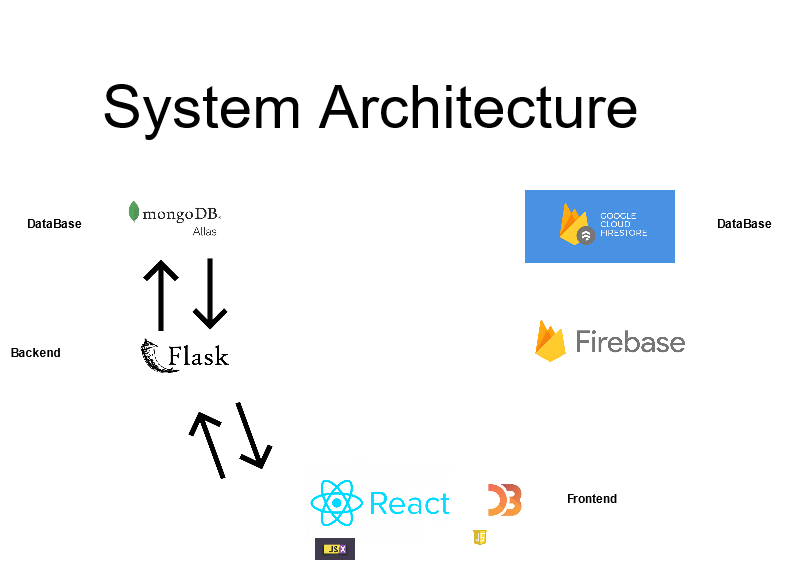
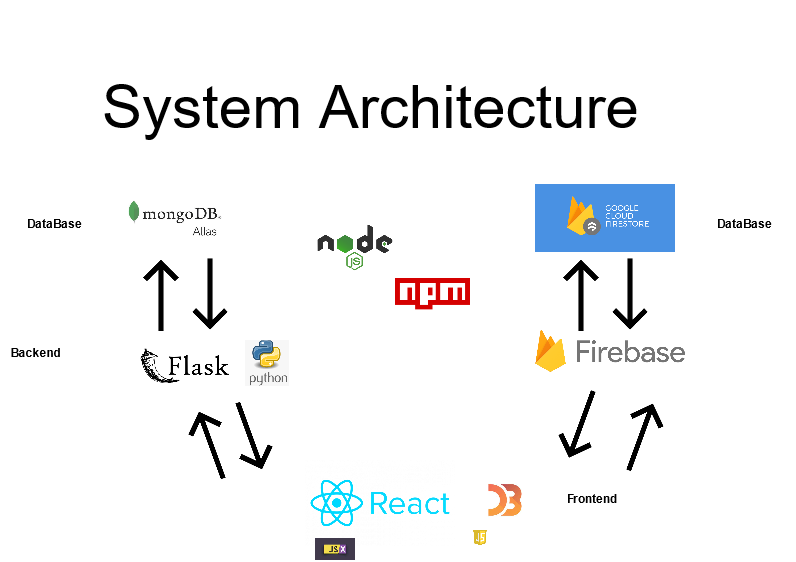
added to tech review

diff --git a/template-master-Dissertation/content.tex b/template-master-Dissertation/content.tex
@@ -244,7 +244,7 @@ Check out the nice graphs in Figure \ref{tikz:graphs}, and the nice diagram in F
 
 
 \chapter{Technology Review}
-This chapter will outline the technology used and the reasoning for choosing a particular technology. Below is a list of technologies used, descriptions of the technologies at a conceptual level are included for each technology.
+This chapter will outline the technology used and the reasoning for choosing a particular technology. Below is a list of technologies used, descriptions of the technologies at a conceptual level are included for each technology. 
 \begin{itemize}
 \item Git
 \item GitHub
@@ -262,42 +262,75 @@ This chapter will outline the technology used and the reasoning for choosing a p
 \end{itemize}
 
 \section{Version Control}
+Version control is an essential element of any collaborative undertaking. An organisation in GitHub was set up to manage the version control for the project. At the early stages the team were investigating different aspects of data visualisation, when this investigation concluded we created a new repository where all the future work of the project would be tracked.
 \subsection{Git}
 Git is a free and open source distributed version control system designed to handle everything from small to very large projects with speed and efficiency. It is a free and open source software distributed under the terms of the GNU General Public License version 2.
 Git allows and encourages the user to have multiple local branches that can be entirely independent of each other. The creation, merging, and deletion of those lines of development takes seconds. [SN 1] 
 Git is installed and maintained on the users local system and provides a record of ongoing programming versions. It allows developers to rollback to an older version of the code if required.
 There are other popular version control systems for example Apache SVN or CVS, the team chose Git as it was a technology that we were familiar with but did not have a lot of experience with. We felt that there would be many large learning curves ahead of us and if we could mitigate the size of the learning curve by choosing a familiar technology it would help us focus on other areas that required more learning. Having said that there was a significant learning curve using Git with a team. Git gave us experience of using branches, merging branches and manually resolving conflicts.
-\begin{center}    
-      \includegraphics[scale=0.7]{img/git.PNG}
-\end{center}
+\begin{figure}
+    \centering
+    \includegraphics[scale=0.7]{img/git.PNG}
+    \caption{Git on local machine}
+    \label{fig:my_label}
+\end{figure}    
+      
+
 
 \subsection{GitHub}
-GitHub is a web based code hosting platform for version control and collaboration. It lets users work together on projects from anywhere.[SN 2] https://guides.github.com/activities/hello-world/
+GitHub is a web based code hosting platform for version control and collaboration. It lets users work together on projects from anywhere.[SN 2]
 GitHub provides students of GMIT with free accounts, for this project a free account was sufficient as there is a facility to make the project public or private. Using GitHub allowed the team to work entirely remotely.
-\begin{center}    
-      \includegraphics[scale=0.5]{img/github.PNG}
-\end{center}
+\begin{figure}
+    \centering
+    \includegraphics[scale=0.5]{img/github.PNG}
+    \caption{Github Organistaion}
+    \label{fig:my_label1}
+\end{figure}    
+      
+      
 
-\section{Backend}
+
+
 \subsection{Flask}
-Flask is a micro web framework written in Python. It is classified as a microframework because it does not require particular tools or libraries. The “micro” in microframework means Flask aims to keep the core simple but extensible. It has no database abstraction layer, form validation, or any other components where pre-existing third-party libraries provide common functions. However, Flask supports extensions that can add application features as if they were implemented in Flask itself. Extensions exist for object-relational mappers, form validation, upload handling, various open authentication technologies and several common framework related tools.[SN 3] \url{https://en.wikipedia.org/wiki/Flask_(web_framework)}
-The architecture of our project required a back end,front end and a database. We had some experience with MEAN and MERN stacks from previous college projects. More recently we had some exposure to Flask as a backend in Emerging Technology project. We had decided to use React for our frontend, which we had used for a previous MERN(Mongo, Express, React, NodeJs) project. We had also used Angular previously for a MEAN(Mongo, Express, Angular, NodeJs) project but decided to use React.There will be further discussion in the React section about why React was chosen. Part of the teams learning objectives was to use new technologies, to the team, and learn as much as possible about them. For this reason we chose Flask as our backend, as it offered flexible options re database and front end choices. From implementing Flask and reading documentation, the idea of virtual environments was introduced. Virtual environments are independent groups of Python libraries, one for each project. Packages installed for one project will not affect other projects or the operating system’s packages.[SN 4] \url{https://flask.palletsprojects.com/en/1.1.x/installation/}
+Flask is a micro web framework written in Python. It is classified as a microframework because it does not require particular tools or libraries. The “micro” in microframework means Flask aims to keep the core simple but extensible. It has no database abstraction layer, form validation, or any other components where pre-existing third-party libraries provide common functions. However, Flask supports extensions that can add application features as if they were implemented in Flask itself. Extensions exist for object-relational mappers, form validation, upload handling, various open authentication technologies and several common framework related tools.[SN 3] 
+The architecture of our project required a back end,front end and a database. We had some experience with MEAN and MERN stacks from previous college projects. More recently we had some exposure to Flask as a backend in Emerging Technology project. We had decided to use React for our frontend, which we had used for a previous MERN(Mongo, Express, React, NodeJs) project. We had also used Angular previously for a MEAN(Mongo, Express, Angular, NodeJs) project but decided to use React.There will be further discussion in the React section about why React was chosen. Part of the teams learning objectives was to use new technologies, to the team, and learn as much as possible about them. For this reason we chose Flask as our backend, as it offered flexible options re database and front end choices. From implementing Flask and reading documentation, the idea of virtual environments was introduced. Virtual environments are independent groups of Python libraries, one for each project. Packages installed for one project will not affect other projects or the operating system’s packages.[SN 4]
 Most importantly using Flask allowed us to write our own API calls to our MongoDB Atlas database.
 
-\begin{center}    
-      \includegraphics[scale=0.7]{img/flask.PNG}
-\end{center}
+\begin{figure}
+    \centering
+    \includegraphics[scale=0.5]{img/flask.PNG}
+    \caption{Flask}
+    \label{fig:my_label2}
+\end{figure}    
+      
 
-\section{Frontend}
+
+
+
+
+
+
+
+
+
+
+
+
+
 \subsection{React}
 React is a JavaScript library, used for building reusable components.React allows users to design simple views for each state in their application, and React will efficiently update and render just the right components when the data changes.
 Declarative views make the code more predictable and easier to debug. Build encapsulated components that manage their own state, then compose them to make complex UIs.
-React does not make assumptions about the users technology stack, allowing the development of new features in React without rewriting existing code. [SN 5] \url{https://reactjs.org/}
+React does not make assumptions about the users technology stack, allowing the development of new features in React without rewriting existing code. [SN 5]
 React recommends using JSX, an syntax extension of Javascript. We have used JSX in our project.
 See example code from the project.
-\begin{center}    
-      \includegraphics[scale=0.6]{img/jsx.PNG}
-\end{center}
+\begin{figure}
+    \centering
+    \includegraphics[scale=0.6]{img/jsx.PNG}
+    \caption{Example of JSX}
+    \label{fig:my_label4}
+\end{figure}    
+      
+
 
 When researching what front end software to use we considered Angular and React. From our research we compared the two technologies. Included below is a table outlining the advantages and disadvantages of both.
 \begin{table}[ht]
@@ -325,7 +358,7 @@ When researching what front end software to use we considered Angular and React.
 
 
 Information about Job popularity taken from a google search on the 15th of April 2021
-Information about professional popularity taken from StackOverflow survey(2020) of most loved Web framework.\url{https://insights.stackoverflow.com/survey/2020#most-loved-dreaded-and-wanted}
+Information about professional popularity taken from StackOverflow survey(2020) of most loved Web framework.[SN 6]
 
 
 There is no definitive way to decide in advance, which technology would be the best to use, but comparing relevant aspects between technologies can help narrow the choices and help with making the final decision. Having considered all of the information from the table above and taking into account our previous experiences with both Angular and React we chose React as our front end development technology.
@@ -333,7 +366,7 @@ Choice of FrontEnd Technology - can be looked at from 2 perspectives 1. A learni
 2. A good fit for the task we were trying to achieve within the project.
 
 Having completed the project, we feel it had been a good choice from both of those perspectives. 
-\section{Database}
+
 \subsection{MongoDB Atlas}
 MongoDB Atlas is a database as a service, a cloud based service.
 When designing the application we were unsure what format our data would take, if the data was purely relational it would only need a SQL type database, if the data was non relational it would need a noSQL database. 
@@ -342,11 +375,11 @@ NoSQL databases (aka "not only SQL") are non tabular, and store data differently
 For example: Last\_name: "Jones", First\_name: "Mary", Middle\_initial: "S", etc .
 
 
-[SN 6] \url{https://www.mongodb.com/nosql-explained}\\
+[SN 7] \\
 For our data storage we decided to use a noSQL Database as this stored data in the way we required. We could have created a cloud based sql database using something like Postgres, but the amount of data we were handling did not require separation.
 In the end most of our data was relational data but we felt that MongoDB Atlas was still a good fit as it allowed us to add other noSQL type data if the need arose. Each document has a different number of fields, size, content, and is stored in a JSON like format called BSON. The documents in MongoDB do not need to have a schema defined beforehand. The fields can be created on the fly. The data model available within the MongoDB allows developers to represent the hierarchical relationships, store arrays, and other more complex structures easily.
-The mongo shell is an interactive JavaScript interface to MongoDB. You can use the mongo shell to query and update data as well as perform administrative operations.[SN 7] \url{https://docs.mongodb.com/manual/mongo/}
-We used the Mongo shell to upload files to the database from a local system. This tool was used to upload a large csv file with over 4000 lines to a collection in our database.
+The mongo shell is an interactive JavaScript interface to MongoDB. You can use the mongo shell to query and update data as well as perform administrative operations.[SN 7] 
+We used the Mongo shell to upload files to the database from a local system. This tool was used to upload large csv files  with over 4000 lines to a collection in our database.
 
 An aspect of using MongoDB Atlas is how the database is structured in terms of being a distributed system. It also offered peace of mind about the integrity of our data and we knew that the data would not be lost, or that the service would always be continuous, which is a fantastic option for a free version of the product. 
 This helped solidify  some of the central properties of distributed systems which we learned about in the Distributed Systems Module.
@@ -360,24 +393,24 @@ JavaScript is high-level, often just-in-time compiled, and multi-paradigm. It ha
 Alongside HTML and CSS, JavaScript is one of the core technologies of the World Wide Web. Over 97\% of websites use it client-side for web page behavior, often incorporating third-party libraries. All major web browsers have a dedicated JavaScript engine to execute the code on the user's device. 
 As a multi-paradigm language, JavaScript supports event-driven, functional, and imperative programming styles. It has application programming interfaces (APIs) for working with text, dates, regular expressions, standard data structures, and the Document Object Model (DOM).
 The ECMAScript standard does not include any input/output (I/O), such as networking, storage, or graphics facilities. In practice, the web browser or other runtime system provides JavaScript APIs for I/O.
-JavaScript engines were originally used only in web browsers, but they are now core components of other software systems, most notably servers and a variety of applications.[SN 8]\url{https://en.wikipedia.org/wiki/JavaScript}
+JavaScript engines were originally used only in web browsers, but they are now core components of other software systems, most notably servers and a variety of applications.[SN 9]
 \subsection{JSX}
 JSX is an extension of Javascript and stands for JavaScript XML.
-JSX allows us to write HTML elements in JavaScript and place them in the DOM without any createElement()  and/or appendChild() methods. JSX converts HTML tags into react elements.[SN 9] \url{https://www.w3schools.com/react/react_jsx.asp}.
+JSX allows us to write HTML elements in JavaScript and place them in the DOM without any createElement()  and/or appendChild() methods. JSX converts HTML tags into react elements.[SN 10] 
 React encourages the use of JSX for development, though a developer could use JavaScript if preferred.
 The team used JFX for the project.
 
 \subsection{Python}
 Python is an interpreted, high-level and general-purpose programming language. Python's design philosophy emphasizes code readability with its notable use of significant indentation. Its language constructs and object-oriented approach aim to help programmers write clear, logical code for small and large-scale projects.
-Python is dynamically-typed and garbage-collected. It supports multiple programming paradigms, including structured (particularly, procedural), object-oriented and functional programming.[SN 10] \url{https://en.wikipedia.org/wiki/Python_(programming_language)}
+Python is dynamically-typed and garbage-collected. It supports multiple programming paradigms, including structured (particularly, procedural), object-oriented and functional programming.[SN 11] 
 Flask is written in python, the api backend of the project is written on python code. All api routes use Flask Blueprint().
-Flask Blueprints encapsulate functionality, such as views, templates, and other resources. To get a taste for how a Flask Blueprint would work, you can refactor the previous application by moving the index view into a Flask Blueprint. To do so, you have to create a Flask Blueprint that contains the index view and then use it in the application.[SN 11] \url{https://realpython.com/flask-blueprint/}
+Flask Blueprints encapsulate functionality, such as views, templates, and other resources. To get a taste for how a Flask Blueprint would work, you can refactor the previous application by moving the index view into a Flask Blueprint. To do so, you have to create a Flask Blueprint that contains the index view and then use it in the application.[SN 12] 
 
 \section{Development Environment}
 \subsection{Visual Studio Code}
 Visual Studio Code is a lightweight but powerful source code editor which runs on your desktop and is available for Windows, macOS and Linux. It comes with built-in support for JavaScript, TypeScript and Node.js and has a rich ecosystem of extensions for other languages (such as C++, C\#, Java, Python, PHP, Go) and runtimes (such as .NET and Unity).[SN 12] \url{https://code.visualstudio.com/docs}
 According to Visual Studio Code,"Visual Studio Code combines the simplicity of a source code editor with powerful developer tooling, like IntelliSense code completion and debugging.
-First and foremost, it is an editor that gets out of your way. The delightfully frictionless edit-build-debug cycle means less time fiddling with your environment, and more time executing on your ideas."[SN 13] \url{https://code.visualstudio.com/docs/editor/whyvscode}
+First and foremost, it is an editor that gets out of your way. The delightfully frictionless edit-build-debug cycle means less time fiddling with your environment, and more time executing on your ideas."[SN 13] 
 The team agrees, VS code is extremely easy to use, is much faster than other IDE's, the inbuilt support for JS and Node.js is something we considered, it also allowed us to develop the backend which was written in python, it allowed seamless integration between the different coding languages. **** need to finesse this section *******
 
 
@@ -473,30 +506,36 @@ Our ChartWrapper.js will look like this :
 \end{center}
 
 \section{Architecture Overview}
-At the beginning  the project did not have a defined architecture as the project was using external apis to get data and some of the data was stored in the project itself. The front end was worked on initially, once the frontend was functioning a decision was made about the architecture of the project. Flask was decided on as the backend, which would interact with the database and the frontend.
-The intention was always to have a three tier architecture but it was not fully decided as to which technologies would be used. Once the architecure was finalised, we wrote our own api calls to the database. 
+The architecture of the project is a three tiered architecture, consisting of a front-end, a back-end and a data tier.
+Three-tier architecture is a well-established software application architecture that organizes applications into three logical and physical computing tiers: the presentation tier, or user interface; the application tier, where data is processed; and the data tier, where the data associated with the application is stored and managed.
+The chief benefit of three-tier architecture is that because each tier runs on its own infrastructure, each tier can be developed simultaneously by a separate development team, and can be updated or scaled as needed without impacting the other tiers.[SN 0]
+
+The front end was worked on initially, once the front-end was functioning a decision was made about the architecture of the project. Flask was decided on as the back-end, which would interact with the database tier and the front-end.
+Once the architecture was finalised, we wrote our own api calls to the database. 
 
 
 While researching mongoDB and Flask working together, we found articles on the web that described the stack were developing it was called FReMP. Unlike MEAN or MERN this acronym seems to be new and does not have as much documentation. Our architecture also includes a login facility using Firestore and some of the static data for the components rendering D3 data is stored in Firebase. 
 
 FReMP stack is a very powerful and highly scalable stack which reduces complexity of back-end code, deals with the database requests very quickly and brings a user friendly interface for front-end users.
 
-We had decided because React does not tie a developer to use a particular backend, and we wanted to learn more about Flask and python, which we had some familiarity with.  
+We had decided on Flask because React does not tie a developer to use a particular back-end, and we wanted to learn more about Flask and python, which we had some familiarity with.  
 
 
 
 \section{Three tier architecture}
 \subsection{Data Tier}
-MongoDB Atlas was used to mange some of the data required for the project. Firebase was used for data that rendered D3 images. External api's were used for the Covid-19 data. These api's are updated daily. The app allows a user to record temperature, symptoms and leave a rating or review, this information is stored in MongoDB and can be retrieved. Everytime the a temperature is entered a temperature graph dynamically changes. Pymongo, a python library specifically for interacting with a Mongo database. We chose a cloud based database MongoDB.
+We chose a cloud based database MongoDB Atlas to manage some of the data required for the project. The project relies on daily updated apis for Covid19 data, as part of the initial project we investigated other pandemics and epidemics.Fortunately these occurred years ago, unfortunately it meant that the data was not easy to find. We found some limited data on SARs MERs and Smallpox. The smallpox data was stored in MongoDB and the SARs and MERs data was stored in Firebase.
+Firebase was used for data that rendered D3 images. External api's were used for the Covid-19 data. The app allows a user to record temperature, symptoms and leave a rating or review, this information is stored in MongoDB and can be retrieved. Everytime the a temperature is entered a temperature graph dynamically changes. 
 
-\section{Backend - Logic Tier}
-The API is written with Flask. Also firebase/firestore? 
-Requests from the app are sent by a request from the code in the frontend, using Js or JSX.
-Need to add more to this - once we understand what exactly is involved with the APi's.
-Using python library Blueprint.
+\section{Logic Tier - Back end}
+Using RESTful API's which follow an architecture that use predefined and stateless operations to access web resources.
+The API is written with Flask, uses Pymongo, a python library specifically for interacting with a Mongo database. . Also firebase/firestore? 
+Requests from the app are sent by a request from the code in the front end, using JavaScript or JSX to the RESTful API, this API sends a connection request to MongoDB Atlas which is on the web. Flask retrieves the information and sends it to the be displayed at the application end.
+Flask 
 
-\section{Frontend - Application Tier}
-React was used to develop the client side of the application. 
+\section{Application Tier Front end}
+React was used to develop the client side of the application. React is an open source JavaScript library for rendering views. React apps are an example of single application applications(SPA), the application code, like HTML, CSS and Javascript is loaded once. The SPA only sends what the user needs, for example by clicking on a button only the information associated with that button is reloaded not the whole page. This piece by piece, client side method makes load time must faster for users and makes the amount of information a server has to send a lot less.
+When a user interacts with the app JavaScript intercepts the browser events
 More info about this element of the project goes here.
 \begin{center}    
       \includegraphics{img/fremp.PNG}
@@ -517,8 +556,8 @@ These technologies were chosen as they give developers the ability to handle lar
 \begin{center}    
       \includegraphics{img/HerokuArchitecture.png}
 \end{center}
-Heroku is a platform as a service based on a managed container system, with integrated data services and a powerful ecosystem, for deploying and running modern apps. [SN 14] https://www.heroku.com/platform.
-We deployed the project to the web using Heroku. We investigated different options for deployment, there are many companies that offer a free option or trial PaaS product, companies like Plesk, Cloudify and Heroku, as well as Open Source Paas tools.The project deployment was implemented towards the end of project development, because we had prior experience with Heroku and limited time we decided to try Heroku first. If we felt that Heroku was not suitable we would try another platform like Plesk or an open source option like Dokku, but Heroku worked well and with the time frame left we decided there was no need to investigate another option. Heroku's free option was just about sufficient for our app.
+Heroku is a platform as a service based on a managed container system, with integrated data services and a powerful ecosystem, for deploying and running modern apps. [SN 14] 
+We deployed the project to the web using Heroku. We investigated different options for deployment, there are many companies that offer a free option or trial PaaS product, companies like Plesk, Cloudify and Heroku, as well as Open Source Paas tools.The project deployment was implemented towards the end of project development, because we had prior experience with Heroku and limited time we decided to try Heroku first. If we felt that Heroku was not suitable we would try another platform like Plesk or an open source option like Dokku, but Heroku worked well and with the time frame left we decided there was no need to investigate another option. Heroku's free option was sufficient for our app deployment.
 \begin{center}    
       \includegraphics[scale=0.6]{img/HerokuStats.PNG}
 \end{center}
@@ -553,6 +592,8 @@ Jest also provides Snapshot testing, the ability to create a rendered ‘snapsho
 Jest was used to test Firebase and Firestore functions.
 Every time I used Firebase, I ran into the problem of how to test Firebase's database and authentication. Since I am using Jest as my default testing environment, I figured everything I needed already comes with Jest.
 
+\subsection{Pytest}
+\subsection{React Testing}
 \begin{center}    
       \includegraphics[scale=0.6]{img/jest.PNG}
 \end{center}
@@ -585,19 +626,32 @@ As many pages as needed.
 \item Prove that your software is robust. How? Testing etc. 
 \item Use performance benchmarks (space and time) if algorithmic.
 \item Measure the outcomes / outputs of your system / software against the objectives from the Introduction.
-\item Highlight any limitations or opportuni-ties in your approach or technologies used.
+\item Highlight any limitations or opportunities in your approach or technologies used.
 \end{itemize}
 
 \chapter{Conclusion}
 About three pages.
 
 \begin{itemize}
-\item Briefly summarise your context and ob-jectives (a few lines).
-\item Highlight your findings from the evalua-tion section / chapter and any opportuni-ties identified.
+\item Briefly summarise your context and objectives (a few lines).
+\item Highlight your findings from the evaluation section / chapter and any opportunities identified.
 \end{itemize}
 
 \chapter{References Technology Review}
+[SN 0] Three tier architecture; \url{https://www.ibm.com/cloud/learn/three-tier-architecture}
 [SN 1] Git; \url{https://git-scm.com/}
-
+[SN 2] GitHub; \url{https://guides.github.com/activities/hello-world/}
+[SN 3] Flask; \url{https://en.wikipedia.org/wiki/Flask_(web_framework)}
+[SN 4] Virtual environments; \url{https://flask.palletsprojects.com/en/1.1.x/installation/}
+[SN 5] React;  \url{https://reactjs.org/}
+[SN 6] Table information; \url{https://insights.stackoverflow.com/survey/2020#most-loved-dreaded-and-wanted}
+[SN 7] MongoDB; \url{https://www.mongodb.com/nosql-explained}
+[SN 8]
+[SN 9] JavaScript; \url{https://en.wikipedia.org/wiki/JavaScript}
+[SN 10] JSX; \url{https://www.w3schools.com/react/react_jsx.asp}.
+[SN 11] Python; \url{https://en.wikipedia.org/wiki/Python_(programming_language)}
+[SN 12] Blueprint; \url{https://realpython.com/flask-blueprint/}
+[SN 13] Visual Studio Code; \url{https://code.visualstudio.com/docs/editor/whyvscode}
+[SN 14] Heroku; \url{https://www.heroku.com/platform}
 
 
